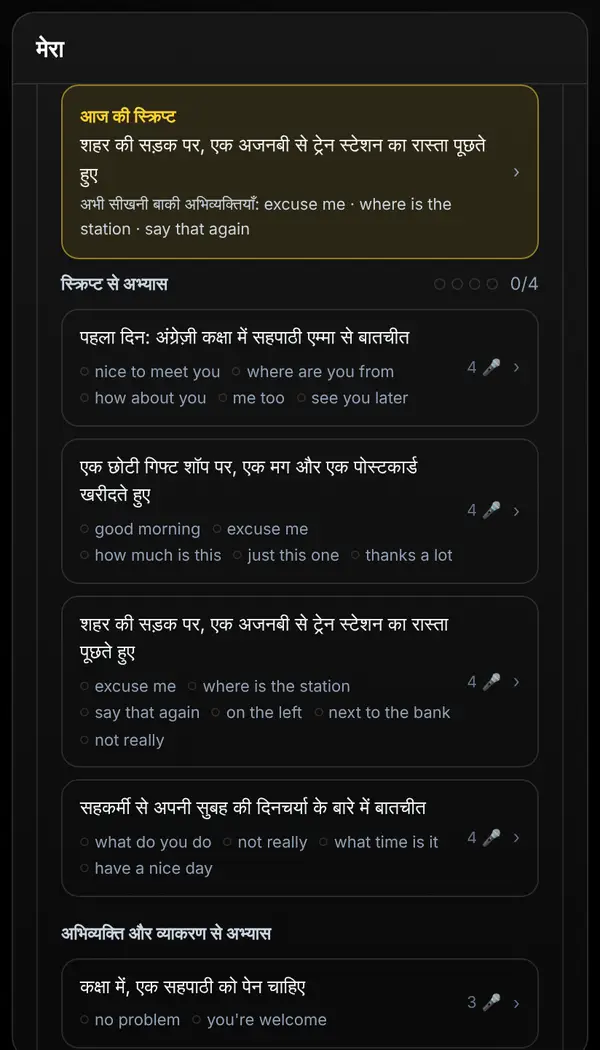
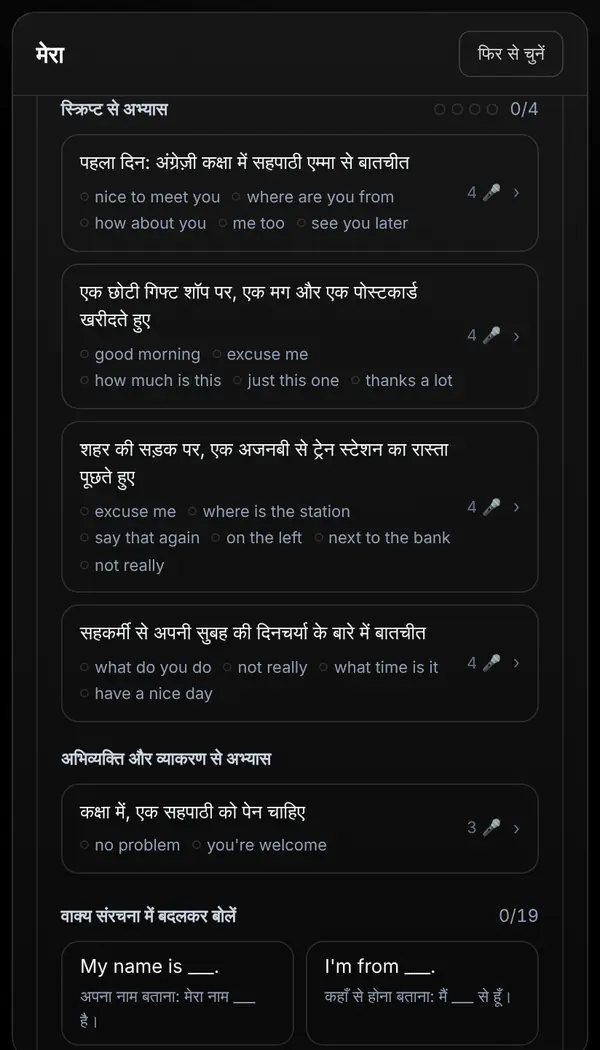
2.77(91)로 자름: 새로워진 점 두 장(오늘 할 것·지난번에 틀린 것) 14개 언어 그림, 사용법 대본 목록 그림 다시
- 버전 2.77·91, 2.76(90)은 Play에 안 나가 2.75 → 2.77이면 2.76 새로워진 점도 함께
- 캡처 장면 today-plan·weak-strip, 캡처 사용자에게 1단계 골라 두기
- 출시 노트 91은 PR #25

Claude-Session: https://claude.ai/code/session_01JGFYjqkDSjjkCuf2w7CSMx

diff --git a/src/lib/copy.ts b/src/lib/copy.ts
@@ -788,6 +788,10 @@ const generatedWhatsNewOverlay = {
   whatsNewFramesBody: "Say a sentence structure four times, changing only the blank. When the tutor corrects the same structure twice, it comes back as “Practise again”.",
   whatsNewAiTutorTitle: "AI tutor in People",
   whatsNewAiTutorBody: "The AI tutor sits at the top of People: message, call or see past calls from its profile.",
+  whatsNewTodayTitle: "A daily plan for you",
+  whatsNewTodayBody: "Pick minutes a day and see how many days to finish; what confused you comes back as a short quiz.",
+  whatsNewMissedTitle: "What you got wrong comes back",
+  whatsNewMissedBody: "Lines the tutor fixed and script lines you missed sit at the top of My, and a morning reminder puts them on your lock screen.",
   whatsNewStagePartsTitle: "Stages by vocabulary, grammar, phrases and pronunciation",
   whatsNewStagePartsBody: "My now splits each stage into Vocabulary, Grammar, Phrases and Pronunciation. Practise the weakest one right away; when all four pass 70%, “Next stage”. Each stage shows conversations you can have.",
   whatsNewBoardTopicsTitle: "Board topics",
@@ -1453,6 +1457,10 @@ export const copy = {
     whatsNewFramesBody: "문장구조 하나를 빈칸만 바꿔 네 번 말해요. 튜터가 같은 문장구조를 두 번 고치면 ‘다시 연습’으로 돌아와요.",
     whatsNewAiTutorTitle: "사람 탭의 AI 튜터",
     whatsNewAiTutorBody: "AI 튜터가 사람 탭 맨 위에 있어요. 프로필에서 메시지·통화·통화 기록을 열어요.",
+    whatsNewTodayTitle: "매일 할 것을 정해 줘요",
+    whatsNewTodayBody: "하루 분량을 고르면 며칠에 끝나는지 보여 주고, 헷갈린 곳은 짧은 퀴즈로 다시 나와요.",
+    whatsNewMissedTitle: "틀린 것을 다시 보여 줘요",
+    whatsNewMissedBody: "튜터가 고친 줄과 대본에서 틀린 줄이 My 맨 위에 모이고, 아침 알림으로 잠금화면에도 떠요.",
     whatsNewStagePartsTitle: "어휘·문법·표현·발음으로 보는 단계",
     whatsNewStagePartsBody: "My가 어휘·문법·표현·발음 네 칸으로 바뀌었어요. 가장 부족한 칸을 바로 연습하고, 네 칸이 70%를 넘으면 ‘다음 단계로’. 단계마다 할 수 있는 대화 예시도 있어요.",
     whatsNewBoardTopicsTitle: "게시판 주제 칩",
@@ -2853,6 +2861,10 @@ export const copy = {
     whatsNewFramesBody: "Say a sentence structure four times, changing only the blank. When the tutor corrects the same structure twice, it comes back as “Practise again”.",
     whatsNewAiTutorTitle: "AI tutor in People",
     whatsNewAiTutorBody: "The AI tutor sits at the top of People: message, call or see past calls from its profile.",
+    whatsNewTodayTitle: "A daily plan for you",
+    whatsNewTodayBody: "Pick minutes a day and see how many days to finish; what confused you comes back as a short quiz.",
+    whatsNewMissedTitle: "What you got wrong comes back",
+    whatsNewMissedBody: "Lines the tutor fixed and script lines you missed sit at the top of My, and a morning reminder puts them on your lock screen.",
     whatsNewStagePartsTitle: "Stages by vocabulary, grammar, phrases and pronunciation",
     whatsNewStagePartsBody: "My now splits each stage into Vocabulary, Grammar, Phrases and Pronunciation. Practise the weakest one right away; when all four pass 70%, “Next stage”. Each stage shows conversations you can have.",
     whatsNewBoardTopicsTitle: "Board topics",
@@ -4252,6 +4264,10 @@ export const copy = {
     whatsNewFramesBody: "Di una estructura de frase cuatro veces cambiando solo el hueco. Si el tutor corrige la misma estructura dos veces, vuelve como «Practicar otra vez».",
     whatsNewAiTutorTitle: "El tutor de IA en Personas",
     whatsNewAiTutorBody: "El tutor de IA está arriba en Personas: desde su perfil, escríbele, llámalo o mira tus llamadas.",
+    whatsNewTodayTitle: "Un plan para cada día",
+    whatsNewTodayBody: "Elige los minutos al día y verás en cuántos días terminas; lo que te confundió vuelve como un quiz corto.",
+    whatsNewMissedTitle: "Vuelve lo que fallaste",
+    whatsNewMissedBody: "Las frases que corrigió el tutor y las líneas que fallaste aparecen arriba en Mi espacio, y un aviso por la mañana las muestra en la pantalla de bloqueo.",
     whatsNewStagePartsTitle: "Etapas por vocabulario, gramática, expresiones y pronunciación",
     whatsNewStagePartsBody: "Mi espacio divide cada etapa en Vocabulario, Gramática, Expresiones y Pronunciación. Practica la más floja al momento; cuando las cuatro pasan del 70 %, «Siguiente etapa». Cada etapa muestra conversaciones que ya puedes tener.",
     whatsNewBoardTopicsTitle: "Temas del tablón",

diff --git a/src/lib/whatsNew.ts b/src/lib/whatsNew.ts
@@ -44,6 +44,16 @@ export type ReleaseNote = {
 
 export const RELEASE_NOTES: ReleaseNote[] = [
   {
+    // 2.77(91): My 오늘 할 것(분량·n일 완성·순서, 헷갈린 곳 퀴즈, 오늘 배운 것·직접 묻기), 지난번에 틀린 것 + 아침 알림(새 로컬 알림 플러그인).
+    // 첫 화면 My·처음 설치 기능 한 장씩·대본 평가(★·더 자연스러운 말)·이어서 하기·채팅에서 다시 쓰기·1:1 읽음·팔로우 목록은 사용법·출시 노트에만.
+    version: "2.77",
+    code: 91,
+    items: [
+      { id: "today-plan", title: "whatsNewTodayTitle", body: "whatsNewTodayBody", shot: "today-plan", tab: "map", guide: "my.map" },
+      { id: "weak-strip", title: "whatsNewMissedTitle", body: "whatsNewMissedBody", shot: "weak-strip", tab: "map", guide: "my.map" },
+    ],
+  },
+  {
     // 2.76(90): My 단계 대본(상황마다, 통과해야 다음 단계)·오늘의 대본, 틀 바꿔 말하기(ko·ja·es 1~3, 3단계 내 말로)·틀린 틀 다시 연습,
     // AI 튜터를 사람 탭으로(프로필 시트 메시지·통화·통화 기록). 무료 = 대본·대본 플랜·팩 뺌, 통화 기록을 채팅과 따로, My 예전 기능 뺌은 사용법·출시 노트에만.
     version: "2.76",

diff --git a/hub/STATE.md b/hub/STATE.md
@@ -3,7 +3,7 @@
 > 모든 채팅이 시작할 때 자동으로 읽는 한 장입니다. 역할별 자세한 내용은
 > `hub/roles/`, 역할 사이에 넘긴 일은 `hub/inbox.md`, 지난 기록은 `hub/log/`.
 > 새 채팅이면 `hub/HANDOFF.md`(직전 채팅의 인계 노트)부터. 자동 실행이 남긴 보고·결정 대기는 `hub/reports.md`.
-> 허브 쓰는 법: `hub/README.md`. 서비스 지도(구조도 + 화면 그림): https://claude.ai/artifact/NBkDqLoixshhxKugCtuR8y. 마지막 갱신: 2026-10-27(2.75 Play 공개).
+> 허브 쓰는 법: `hub/README.md`. 서비스 지도(구조도 + 화면 그림): https://claude.ai/artifact/NBkDqLoixshhxKugCtuR8y. 마지막 갱신: 2026-10-29(2.77 자름).
 
 ## 버전
 
@@ -13,7 +13,7 @@
 | 서버 | main에 push하면 Vercel이 바로 배포 | — |
 | 업데이트 권장 배너 기준 | 2.66 (2026-10-16) | `src/lib/appVersion.ts` `RECOMMENDED_APP_VERSION` |
 | 최소 지원 버전 | 2.48 (올리면 그 아래는 앱을 못 씀, 거의 건드리지 않음) | 같은 파일 `MIN_SUPPORTED_APP_VERSION` |
-| 다음 앱 버전 | **2.76 (versionCode 90) 자름(2026-10-28)** — 단계 대본·틀·다시 연습·대본 플랜·AI 튜터 사람 탭·통화 기록 따로·My 예전 기능 뺌. 출시 노트 90은 PR. PC에서 `npm run pc:build` → Signed Bundle(사람). 이후 더하는 학습 언어 대본·틀은 서버에서 받아 빌드 없이 보임 | — |
+| 다음 앱 버전 | **2.77 (versionCode 91) 자름(2026-10-29)** — 2.76(90)은 Play에 안 나가 그 내용 + 오늘 할 것·퀴즈·지난번에 틀린 것·아침 알림(새 플러그인 local-notifications)·대본 평가·이어서 하기·첫 화면 My·1:1 읽음·팔로우 목록. 출시 노트 91은 PR #25(#24는 닫아도 됨). PC에서 `npm run pc:build` → Signed Bundle(사람) | — |
 | iOS | **App Store 심사 다시 제출(2026-10-23 15:0x KST)** — 2.71 + 구독 그룹·구독 3·포인트 4 한 제출(처음 05:12 제출은 상품 빠짐·진단 빌드 85.9라 취소). 심사 대기 중. 앱 ID 6824542951. 남은 일 `hub/drafts/ios-launch.md` "심사 중" | `npm run build:ios`, `hub/drafts/ios-launch.md` |
 
 ## 역할

diff --git a/hub/inbox.md b/hub/inbox.md
@@ -144,3 +144,5 @@
 - 2026-10-28 dev → qa: 다음 빌드(2.76) 공부 기록 — 로그인 계정으로 대본 하나 통과·몇 줄 말하기·AI 통화 몇 턴 → 편집 "공부 기록" 켜기 → 다른 폰에서 내 프로필에 📘·🗣 숫자, 끄면 사라지는지. 꾸준함 "이번 주"가 대본만 한 날도 오르는지. ko·ja·ar 앱.
 - 2026-10-28 dev → qa: 다음 빌드 My 오늘 할 것 퀴즈 — 대본 끝 체크에서 "헷갈려요"를 누른 계정(또는 대본에서 같은 내 줄을 두 번 틀린 계정)으로 2일 뒤 "퀴즈 · …" 칸 → 문제 셋(빈칸·순서·틀린 곳 중 둘 + 말하기 🎤), 둘 이상 맞으면 ✓·칸에 ✓, 틀리면 "대본으로 연습"이 그 대본을 여는지, 다음 날 같은 칸이 안 나오는지. 일본어 순서 조각이 너무 잘게 잘리는지(ま·した). ja/ko, en/ja, es/ar.
 - 2026-10-28 dev → store: 다음 출시 노트·새로워진 점 후보 "헷갈리거나 틀린 곳은 오늘 할 것에 짧은 퀴즈로(틀린 곳·빈칸·순서·말하기)". 2.76을 아직 안 빌드했다면 main으로 빌드하면 함께 들어감.
+- 2026-10-29 dev → store: 2.77(91) 자름 — 출시 노트 PR #25(2.76+2.77 합침, 2.76 PR #24는 닫기). 새 플러그인 `@capacitor/local-notifications`(알림 권한 POST_NOTIFICATIONS·부팅 뒤 다시 예약 RECEIVE_BOOT_COMPLETED, 정확한 알람 권한은 뺌) — Play 데이터 보안·권한 신고 바뀌는지 확인.
+- 2026-10-29 dev → qa: 2.77 빌드 — 아침 알림 켜기(허용 묻기) → 시각을 1~2분 뒤로 → 잠금화면에 틀린 것·단어가 뜨는지, 누르면 My, 폰 다시 켠 뒤에도 뜨는지. My 맨 위 "지난번에 틀린 것"·대본 다시 열면 ◐, 채팅에서 헷갈린 표현 쓰면 "✓ 다시 썼어요". ko·ja·ar 앱.

diff --git a/hub/log/2026-10.md b/hub/log/2026-10.md
@@ -3592,3 +3592,9 @@
   못 본 것: 실제 폰에서 알림이 잠금화면에 뜨는지·시각·누르면 My(새 플러그인이라 앱 빌드 필요), 통화 속 다시 쓰기 유도.
 - 구조: STRUCTURE 위쪽 My 단계 줄, 새 화면 `studyMap/WeakStrip`.
 - 커밋/브랜치: main
+
+## 2026-10-29 dev — 2.77(91) 자름
+- 사용자: "2.77로 잘라줘".
+- 한 일: 버전 2.77·91(package.json·build.gradle·package-lock), 새로워진 점 2.77 두 장(today-plan·weak-strip, 문구 4개 14개 언어 — 예전 whatsNewWeak 키와 겹쳐 whatsNewMissed로), 그림 14개 언어(`capture-whats-new.mjs 2.77`, 장면 두 개 새로 + 캡처 사용자에게 1단계 골라 두기 `pickStageOne`), 사용법 my.map 그림 stage-scripts 다시(오늘의 대본 카드 대신 "대본으로 연습" 머리), 출시 노트 91 PR #25(2.76이 Play에 안 나가 2.75 → 2.77 내용 함께, 500자 넘는 6개 언어는 문장구조 한 문장 뺌), PRODUCT 기준·버전 표, STATE.
+- 구조: 변화 없음
+- 커밋/브랜치: main(+ store/release-notes-91)
